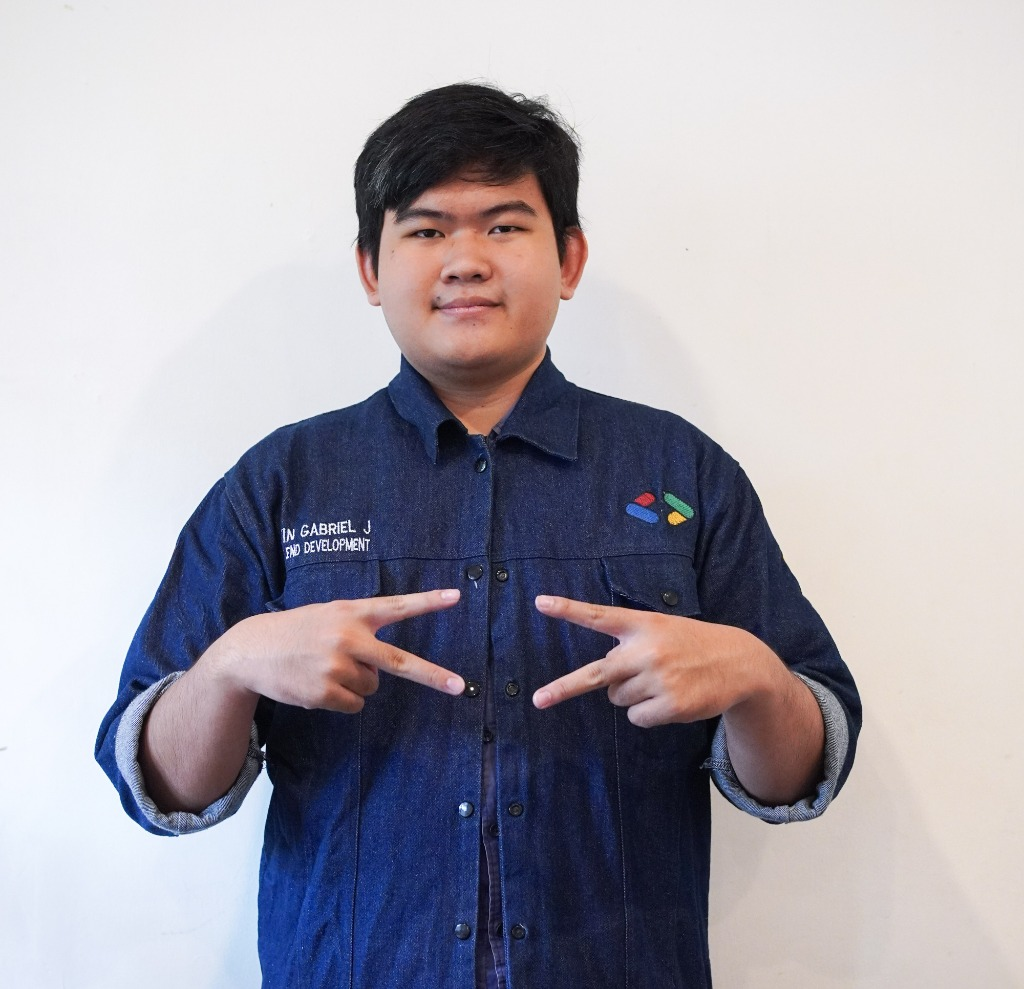
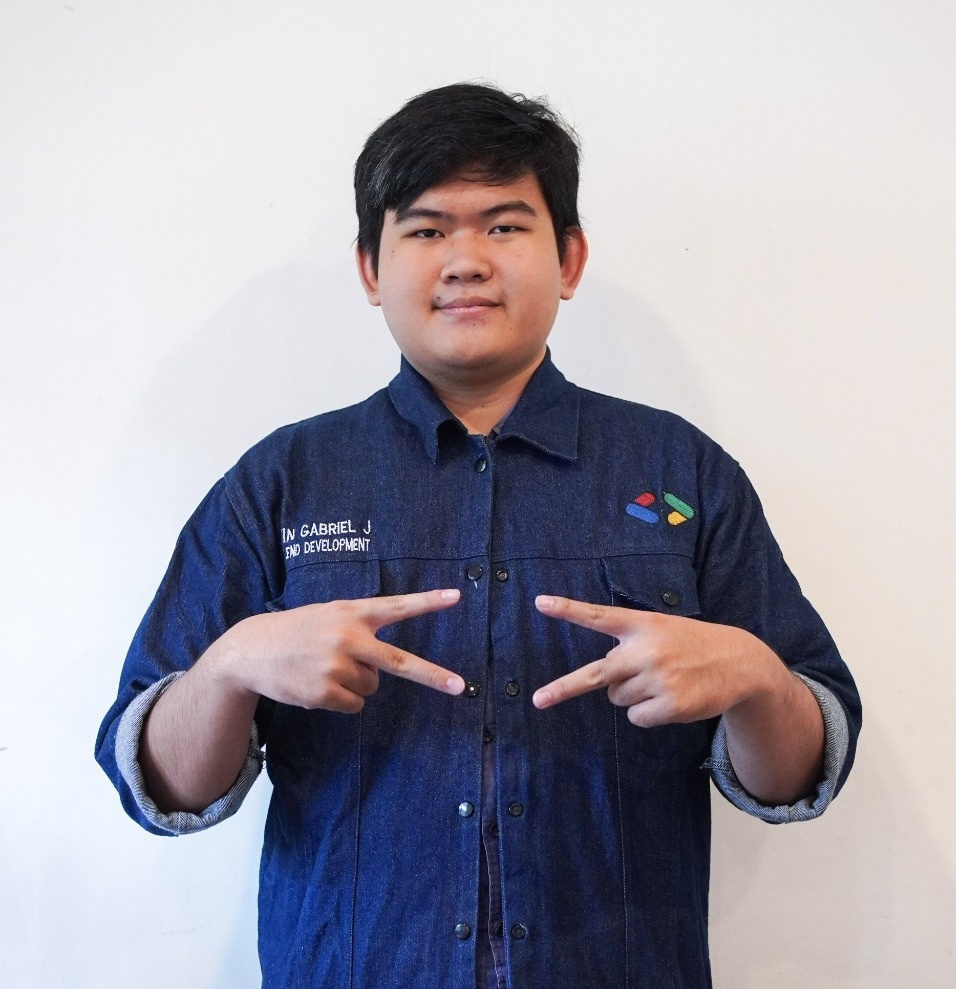
fix(hero): center-crop profile photo symmetrically and align portrait frame

Changed region(s): [[0.091, 0.0607, 0.91, 1.0]]

diff --git a/src/components/sections/HeroSection.tsx b/src/components/sections/HeroSection.tsx
@@ -165,7 +165,7 @@ export default function HeroSection() {
             initial={{ opacity: 0, y: 26 }}
             animate={{ opacity: 1, y: 0 }}
             transition={{ duration: 0.6, delay: 0.12, ease: "easeOut" }}
-            className="relative flex justify-center lg:col-span-5 lg:justify-end"
+            className="relative flex justify-center lg:col-span-5"
           >
             {/* Subtle Floating Neon Shapes around Portrait */}
             <div className="pointer-events-none absolute -top-8 -right-4 hidden sm:block">
@@ -176,13 +176,13 @@ export default function HeroSection() {
             </div>
 
             {/* Portrait Container */}
-            <div className="group relative w-full max-w-[360px] overflow-hidden rounded-3xl border border-[var(--border-subtle)] bg-[var(--bg-card)] p-2.5 shadow-[0_24px_60px_rgba(0,0,0,0.75)] transition-all hover:border-[var(--border-strong)]">
-              <div className="relative aspect-[4/5] w-full overflow-hidden rounded-2xl bg-gradient-to-b from-zinc-800 via-zinc-900 to-zinc-950">
+            <div className="group relative w-full max-w-[380px] overflow-hidden rounded-3xl border border-[var(--border-subtle)] bg-[var(--bg-card)] p-2.5 shadow-[0_24px_60px_rgba(0,0,0,0.75)] transition-all hover:border-[var(--border-strong)]">
+              <div className="relative aspect-[956/989] w-full overflow-hidden rounded-2xl bg-gradient-to-b from-zinc-800 via-zinc-900 to-zinc-950">
                 {!imgError ? (
                   /* Loads /profile.jpg from public/profile.jpg */
                   // eslint-disable-next-line @next/next/no-img-element
                   <img
-                    src="/profile.jpg"
+                    src="/profile.jpg?v=2"
                     alt={PORTFOLIO_DATA.personal.name}
                     onError={() => setImgError(true)}
                     className="h-full w-full object-cover object-center transition-transform duration-700 group-hover:scale-105"
